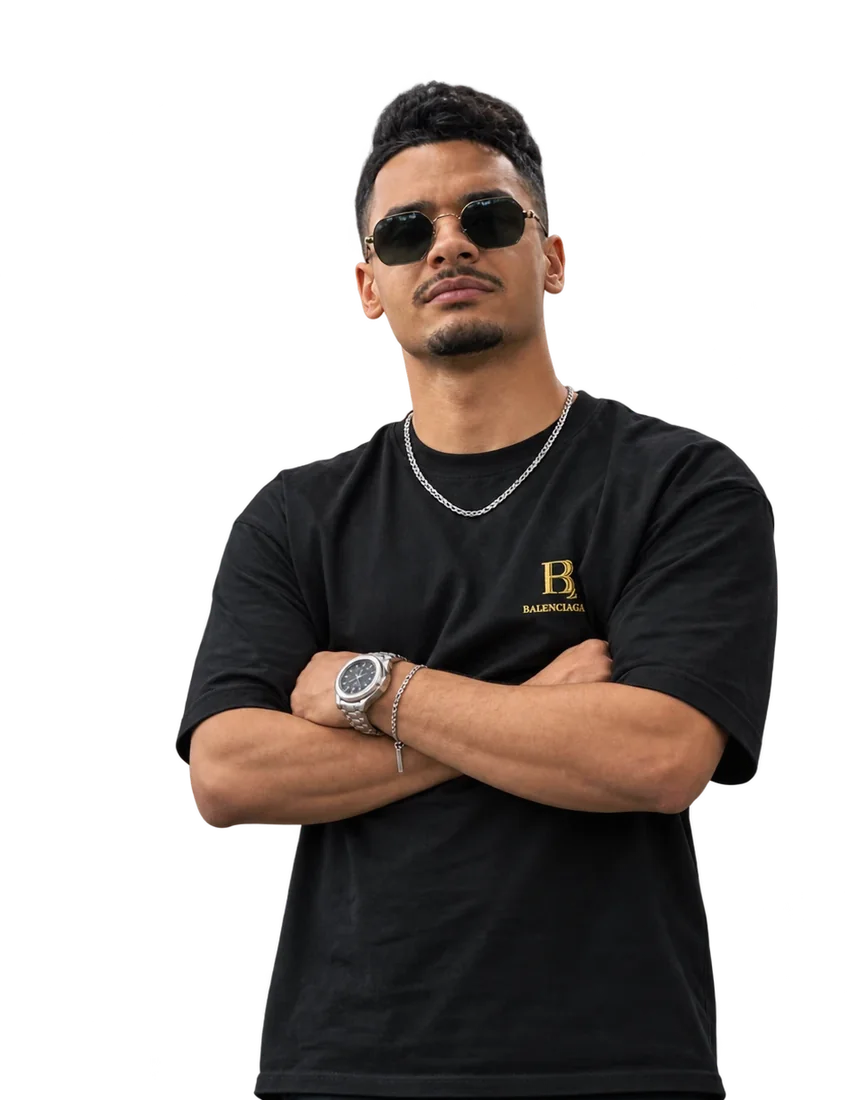
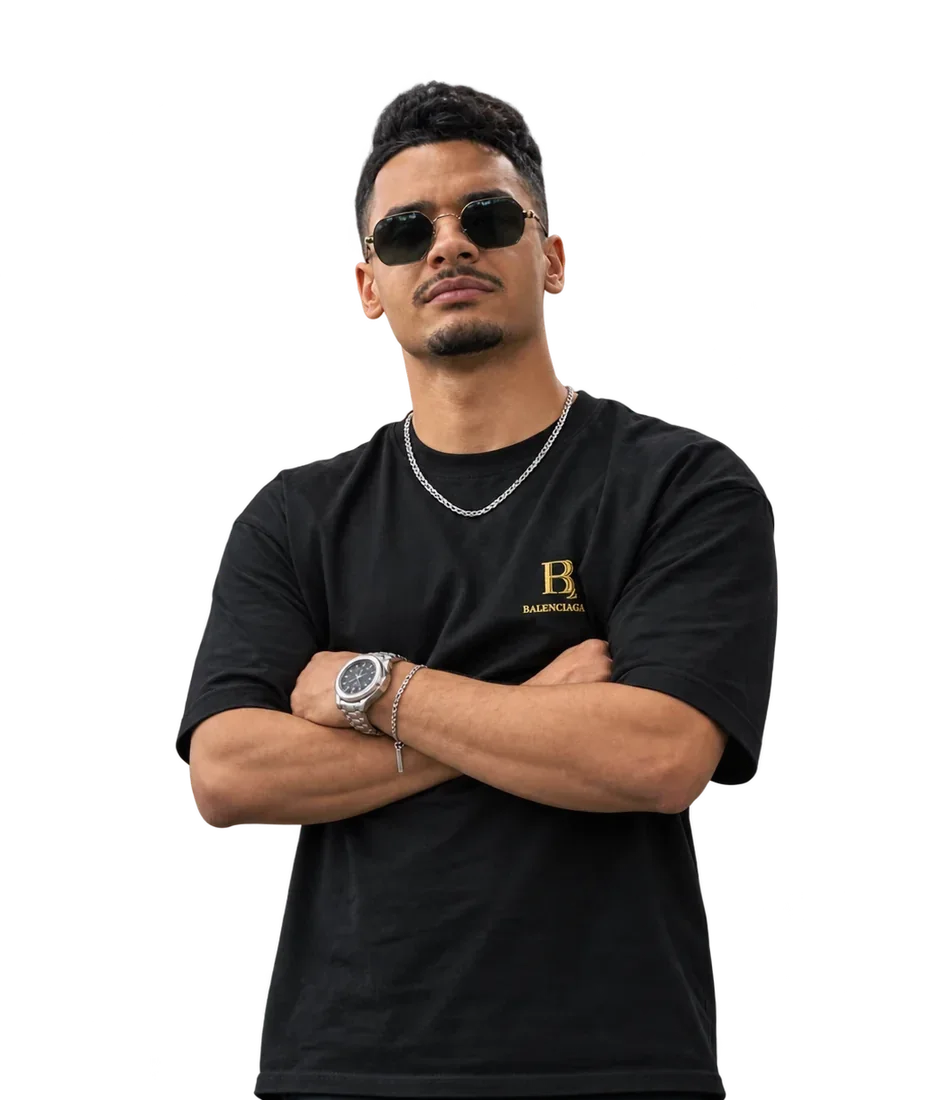
Tagline: Cut · Style on top (mirrored under the tools), gold Confidence centred; Ziko centred in card

Changed region(s): [[0.1842, 0.0618, 0.9209, 1.0], [0.6753, 0.4636, 0.706, 0.4945]]

diff --git a/src/app/(site)/page.tsx b/src/app/(site)/page.tsx
@@ -93,15 +93,15 @@ export default async function HomePage() {
           <p className="eyebrow mt-2 animate-rise [animation-delay:120ms]">{t.hero.eyebrow}</p>
           {/* Symmetric tagline: Cut (top left) · Confidence (top right) · "• Style •" centred below */}
           <h1 aria-label={[t.hero.title1, t.hero.title2, t.hero.title3].join(" · ")} className="mx-auto mt-6 flex w-full max-w-5xl animate-rise flex-col items-center gap-1 font-display text-3xl font-medium uppercase leading-none tracking-[0.12em] [animation-delay:200ms] sm:gap-2 sm:text-5xl lg:text-6xl">
-            {/* Same width as the logo row: CUT starts under the scissors, CONFIDENCE starts right of centre, STYLE sits on the axis */}
+            {/* Same width as the logo row: CUT starts under the scissors, STYLE ends under the clipper (mirror of CUT), CONFIDENCE (gold) sits on the axis */}
             <span className="grid w-full grid-cols-[minmax(0,1fr)_auto_minmax(0,1fr)] items-baseline whitespace-nowrap">
               <span className="justify-self-start ps-1 sm:ps-3 lg:ps-5">{t.hero.title1}</span>
               <span className="w-6 sm:w-10 lg:w-14" />
-              <span className="justify-self-start">{t.hero.title3}</span>
+              <span className="-me-[0.12em] justify-self-end pe-1 sm:pe-3 lg:pe-5">{t.hero.title2}</span>
             </span>
             <span className="flex items-baseline justify-center gap-4 sm:gap-6">
               <span aria-hidden className="text-gold">•</span>
-              <span className="-me-[0.12em] text-gold-metal">{t.hero.title2}</span>
+              <span className="-me-[0.12em] text-gold-metal">{t.hero.title3}</span>
               <span aria-hidden className="text-gold">•</span>
             </span>
           </h1>
